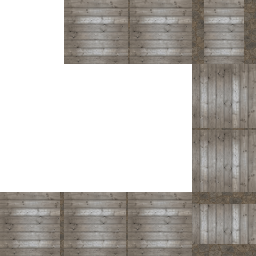
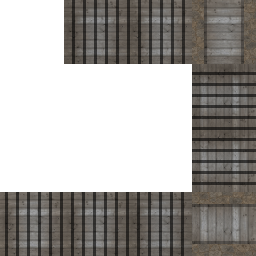
mkstamp v2.1: tread/riser + depth gradient + landing lips + geometry guide mode

diff --git a/tools/mkstamp.py b/tools/mkstamp.py
@@ -1,24 +1,46 @@
 #!/usr/bin/env python3
 """mkstamp.py - compose a construct stamp from its spec manifest + gated tiles.
 
-Renders construct stamps (e.g. the stairwell_upper reverse-J stair run) from the
-spec JSON and the baked 64x64 tiles. Deterministic: same inputs, same pixels.
+Renders construct stamps (e.g. the stairwell_upper reverse-J stair run) from
+the spec JSON and the baked 64x64 tiles. Deterministic: same inputs, same pixels.
 
 Geometry rules (construct doctrine, all constants measured/composed on the
 64px tile grid):
   - Each spec square renders at exactly 64x64 px; squares outside the path
     stay TRANSPARENT (RGBA) so the stamp overlays the region build.
   - Base layer of every path square: its floor material (coverage-driven).
-  - Treads: bands perpendicular to travel direction, one 11px band per pitch
-    step along the direction of travel (pitch 11px, no gaps - full-pitch
-    plank bands), spanning the full 64px flight width.
   - E-W flights use the horizontal-grain tread tile; N-S flights the vertical.
-  - Landing squares: a 40px flight band of tread material crosses the turn
-    (perpendicular to the outgoing direction), floor elsewhere.
   - Tread pitch continues across square boundaries within a segment
     (global pitch per segment, from the segment's first square).
 
-usage: mkstamp.py SPEC.json TILES_DIR OUT.png [--preview PATH]
+STAIR READABILITY (v2 - what makes a flight read as stairs, not stripes):
+  - Each pitch step splits into TREAD + RISER along the travel direction:
+    tread_px of lit plank, then (pitch - tread_px) of riser shadow (the
+    vertical face), so every step has the light/dark tread-riser alternation
+    the eye expects. The riser sits at the ASCENDING edge of its tread.
+  - DEPTH GRADIENT: a gentle global brightness ramp along the whole run -
+    the top of the staircase is lighter than the bottom (depth_shade
+    spread, default 0.26).
+  - LANDING LIPS: each landing's flight band gets a light edge shadow
+    (lip_px, lip_shade) on both edges of the band, so platforms read as
+    framed platforms, not texture patches.
+
+GEOMETRY GUIDE MODE (--guide PATH, v2.1): for image-to-image generation -
+generators paint texture well but cannot follow lattice geometry in prose,
+so we hand them the geometry instead. Renders the SAME geometry at 10x scale
+(tile_px*10 per square - a 256x256 stamp becomes 2560x2560, 1 square = 640px
+= 10 feet, 1 foot = 64px exactly) as a FLAT GRAYSCALE guide: one neutral
+gray per surface class, geometry only, by construction. Classes: background
+black (0), floor (90), tread (215), riser (55), landing band (190),
+landing lip (130). Retexture it with a generator edit pass and keep every
+edge pixel-identical.
+
+Compose keys consumed (all optional beyond the originals; defaults in
+parentheses): tile_px, tread_pitch_px (11), flight_band_px (40),
+tread_tread_px (8 - lit portion of the pitch), riser_shade (0.42),
+depth_shade (0.26), lip_px (3), lip_shade (0.72).
+
+usage: mkstamp.py SPEC.json TILES_DIR OUT.png [--preview PATH] [--guide PATH]
 """
 import sys, json, zlib, struct, os
 
@@ -76,32 +98,25 @@ def write_png_rgba(path, rows, w, h):
            + chunk(b"IEND", b""))
     open(path, "wb").write(png)
 
-# ---------------- composition ----------------
+# surface classes (single geometry source for stamp + guide)
+C_BG, C_FLOOR, C_TREAD, C_RISER, C_LBAND, C_LLIP = 0, 1, 2, 3, 4, 5
+GUIDE_GRAY = {C_BG: 0, C_FLOOR: 90, C_TREAD: 215, C_RISER: 55, C_LBAND: 190, C_LLIP: 130}
 
-def clip_band(tile, w, h, x0, y0, bw, bh):
-    """Exact pixel clip of a bw x bh rect from the tile at (x0,y0). Tiles are
-    seam-proven, so any clip window is valid material; offsets wrap."""
-    out = bytearray()
-    for y in range(bh):
-        ty = (y0 + y) % h
-        base = ty * w * 3
-        for x in range(bw):
-            tx = (x0 + x) % w
-            o = base + tx * 3
-            out += tile[o:o+3]
-    return bytes(out)
+# ---------------- composition ----------------
 
 def main():
     argv = sys.argv[1:]
-    args, preview = [], None
+    args, preview, guide = [], None, None
     i = 0
     while i < len(argv):
         if argv[i] == "--preview":
             preview = argv[i + 1]; i += 2
+        elif argv[i] == "--guide":
+            guide = argv[i + 1]; i += 2
         else:
             args.append(argv[i]); i += 1
     if len(args) != 3:
-        sys.exit("usage: mkstamp.py SPEC.json TILES_DIR OUT.png [--preview PATH]")
+        sys.exit("usage: mkstamp.py SPEC.json TILES_DIR OUT.png [--preview PATH] [--guide PATH]")
     spec_path, tiles_dir, out_path = args
     spec = json.load(open(spec_path))
     path = spec["path"]
@@ -109,10 +124,11 @@ def main():
     T = comp["tile_px"]
     PITCH = comp["tread_pitch_px"]
     BAND = comp["flight_band_px"]
-    floor_name = comp["floor"].split(",")[0].strip()
-    fw, fh, floor = read_png(os.path.join(tiles_dir, floor_name + ".png"))
-    hw, hh, tread_h = read_png(os.path.join(tiles_dir, comp["tread_material"]["E-W segments"] + ".png"))
-    vw, vh, tread_v = read_png(os.path.join(tiles_dir, comp["tread_material"]["N-S segments"] + ".png"))
+    TREADP = comp.get("tread_tread_px", 8)         # lit portion of the pitch
+    RISER = comp.get("riser_shade", 0.42)          # riser face brightness
+    DEPTH = comp.get("depth_shade", 0.26)          # top-light/bottom-dark spread
+    LIP_PX = comp.get("lip_px", 3)
+    LIP = comp.get("lip_shade", 0.72)
 
     squares = []
     segments = []
@@ -125,104 +141,115 @@ def main():
     x1sq = max(s[0] for s in squares); y1sq = max(s[1] for s in squares)
     W = (x1sq - x0sq + 1) * T
     H = (y1sq - y0sq + 1) * T
-    # RGBA canvas, transparent outside path squares
-    canvas = bytearray(W * H * 4)
+    TOTAL = len(squares) * T    # total run travel for the depth gradient
 
-    def set_px(x, y, r, g, b, a=255):
-        o = (y * W + x) * 4
-        canvas[o] = r; canvas[o+1] = g; canvas[o+2] = b; canvas[o+3] = a
-
-    # floor base + per-square layers
-    for (sx, sy) in squares:
-        px = (sx - x0sq) * T
-        py = (sy - y0sq) * T
-        for yy in range(T):
-            for xx in range(T):
-                o = (yy * fw + xx) * 3
-                set_px(px + xx, py + yy, floor[o], floor[o+1], floor[o+2])
-    # treads per segment (global pitch per segment, travel-ordered)
+    # ---- geometry pass: class map + grain map + absolute-travel map ----
+    cls = [[C_BG] * W for _ in range(H)]
+    grain = [[0] * W for _ in range(H)]      # 0 = h tile (E-W), 1 = v tile (N-S)
+    atr = [[0] * W for _ in range(H)]        # absolute travel along the run
     for seg in segments:
         segs = [tuple(q) for q in seg["squares"]]
-        # order squares along travel from 'from'
-        fx, fy = seg["from"]; tx, ty = seg["to"]
         if seg["dir"] in ("E", "W"):
             segs.sort(key=lambda s: s[0])
             if seg["dir"] == "W": segs = list(reversed(segs))
         else:
             segs.sort(key=lambda s: s[1])
             if seg["dir"] == "N": segs = list(reversed(segs))
-        # travel distance origin at first square edge
+        ew = seg["dir"] in ("E", "W")
         travel = 0
-        for k, (sx, sy) in enumerate(segs):
+        for (sx, sy) in segs:
             px = (sx - x0sq) * T
             py = (sy - y0sq) * T
             is_landing = (sx, sy) in landings
             if is_landing:
-                # flight band: BAND-wide strip of tread material crossing the
-                # square, perpendicular to the OUTGOING direction, centered
-                tile = tread_h if seg["dir"] in ("E", "W") else tread_v
-                if seg["dir"] in ("E", "W"):
-                    bx = px + (T - BAND) // 2
-                    band = clip_band(tile, fw, fh, bx % fw, 0, BAND, T)
-                    for yy in range(T):
-                        for xx in range(BAND):
-                            o = (yy * BAND + xx) * 3
-                            set_px(bx + xx, py + yy, band[o], band[o+1], band[o+2])
+                if ew:
+                    b0 = (T - BAND) // 2
                 else:
-                    by = py + (T - BAND) // 2
-                    band = clip_band(tile, fw, fh, 0, by % fh, T, BAND)
-                    for yy in range(BAND):
-                        for xx in range(T):
-                            o = (yy * T + xx) * 3
-                            set_px(px + xx, by + yy, band[o], band[o+1], band[o+2])
-            else:
-                # treads: bands perpendicular to travel, pitch along travel
-                if seg["dir"] in ("E", "W"):
-                    tile = tread_h
-                    start = travel - k * 0  # global: travel accumulates
-                    while True:
-                        b0 = travel + (0)
-                        # bands at absolute pitch positions within this square
-                        break
-                    # pitch continues across squares: absolute position a = travel + offset
-                    for off in range(0, T, 1):
-                        a = travel + off
-                        if a % PITCH == 0:
-                            bw = min(PITCH, T - off)
-                            if seg["dir"] == "E":
-                                bx0 = px + off
-                                band = clip_band(tile, fw, fh, (bx0) % fw, 0, bw, T)
-                            else:
-                                bx0 = px + T - off - bw
-                                band = clip_band(tile, fw, fh, (bx0) % fw, 0, bw, T)
-                            for yy in range(T):
-                                for xx in range(bw):
-                                    o = (yy * bw + xx) * 3
-                                    set_px(bx0 + xx, py + yy, band[o], band[o+1], band[o+2])
-                else:
-                    tile = tread_v
-                    for off in range(0, T, 1):
-                        a = travel + off
-                        if a % PITCH == 0:
-                            bh = min(PITCH, T - off)
-                            if seg["dir"] == "S":
-                                by0 = py + off
-                                band = clip_band(tile, fw, fh, 0, (py + off) % fh, T, bh)
-                            else:
-                                by0 = py + T - off - bh
-                                band = clip_band(tile, fw, fh, 0, (by0) % fh, T, bh)
-                            for yy in range(bh):
-                                for xx in range(T):
-                                    o = (yy * T + xx) * 3
-                                    set_px(px + xx, by0 + yy, band[o], band[o+1], band[o+2])
+                    b0 = (T - BAND) // 2
+            for yy in range(T):
+                for xx in range(T):
+                    if seg["dir"] == "E":
+                        o = xx
+                    elif seg["dir"] == "W":
+                        o = T - 1 - xx
+                    elif seg["dir"] == "S":
+                        o = yy
+                    else:
+                        o = T - 1 - yy
+                    a = travel + o
+                    cx, cy = px + xx, py + yy
+                    if is_landing:
+                        pos = xx if ew else yy
+                        if b0 <= pos < b0 + BAND:
+                            edge = min(pos - b0, b0 + BAND - 1 - pos)
+                            cls[cy][cx] = C_LLIP if edge < LIP_PX else C_LBAND
+                        else:
+                            cls[cy][cx] = C_FLOOR
+                    else:
+                        cls[cy][cx] = C_RISER if a % PITCH >= TREADP else C_TREAD
+                    grain[cy][cx] = 0 if ew else 1
+                    atr[cy][cx] = a
             travel += T
-    # write RGBA rows
-    rows = []
+
+    # ---- render pass ----
+    if guide:
+        S = 10
+        GW, GH = W * S, H * S
+        canvas = bytearray(GW * GH * 4)
+        for y in range(H):
+            for x in range(W):
+                g = GUIDE_GRAY[cls[y][x]]
+                for dy in range(S):
+                    base = ((y * S + dy) * GW + x * S) * 4
+                    for dx in range(S):
+                        canvas[base + dx*4] = g
+                        canvas[base + dx*4 + 1] = g
+                        canvas[base + dx*4 + 2] = g
+                        canvas[base + dx*4 + 3] = 255
+        rows = [bytes(canvas[y*GW*4:(y+1)*GW*4]) for y in range(GH)]
+        write_png_rgba(guide, rows, GW, GH)
+        print("guide: %s -> %s (%dx%d px, 1 square = %dpx = 10 feet, 1 foot = %dpx)"
+              % (spec["id"], guide, GW, GH, T * S, T * S // 10))
+        return
+
+    floor_name = comp["floor"].split(",")[0].strip()
+    fw, fh, floor = read_png(os.path.join(tiles_dir, floor_name + ".png"))
+    hw, hh, tread_h = read_png(os.path.join(tiles_dir, comp["tread_material"]["E-W segments"] + ".png"))
+    vw, vh, tread_v = read_png(os.path.join(tiles_dir, comp["tread_material"]["N-S segments"] + ".png"))
+
+    def grad(a):
+        # depth gradient: brightness 1-DEPTH at the bottom (a=0),
+        # 1.0 at the top (a=TOTAL)
+        return 1.0 - DEPTH * (1.0 - a / float(TOTAL))
+
+    # RGBA canvas, transparent outside path squares
+    canvas = bytearray(W * H * 4)
     for y in range(H):
-        rows.append(bytes(canvas[y*W*4:(y+1)*W*4]))
+        for x in range(W):
+            c = cls[y][x]
+            if c == C_BG:
+                continue
+            xx, yy = x % T, y % T
+            a = atr[y][x]
+            f = grad(a)
+            if c == C_FLOOR:
+                o = (yy * fw + xx) * 3
+                r, g, b = floor[o], floor[o+1], floor[o+2]
+            else:
+                tile = tread_h if grain[y][x] == 0 else tread_v
+                o = (yy * 64 + xx) * 3
+                if c == C_RISER:
+                    f *= RISER
+                elif c == C_LLIP:
+                    f *= LIP
+                r, g, b = int(tile[o]*f), int(tile[o+1]*f), int(tile[o+2]*f)
+            off = (y * W + x) * 4
+            canvas[off] = r; canvas[off+1] = g; canvas[off+2] = b; canvas[off+3] = 255
+
+    rows = [bytes(canvas[y*W*4:(y+1)*W*4]) for y in range(H)]
     write_png_rgba(out_path, rows, W, H)
-    print("stamp: %s -> %s (%dx%d px, %d path squares, pitch %dpx, band %dpx)"
-          % (spec["id"], out_path, W, H, len(squares), PITCH, BAND))
+    print("stamp: %s -> %s (%dx%d px, %d path squares, pitch %dpx = tread %d + riser %d, band %dpx)"
+          % (spec["id"], out_path, W, H, len(squares), PITCH, TREADP, PITCH - TREADP, BAND))
     if preview:
         # 3x nearest upscale preview
         prows = []
